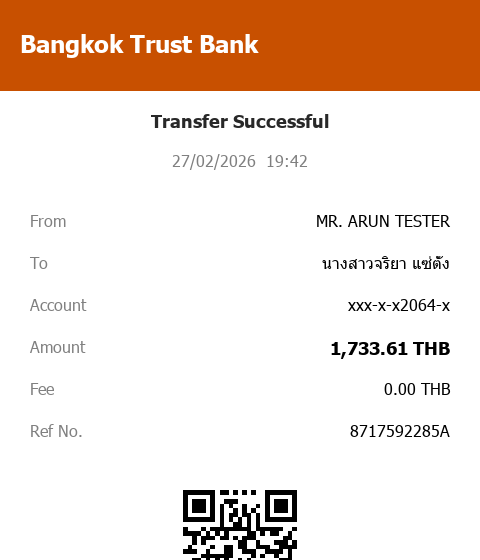
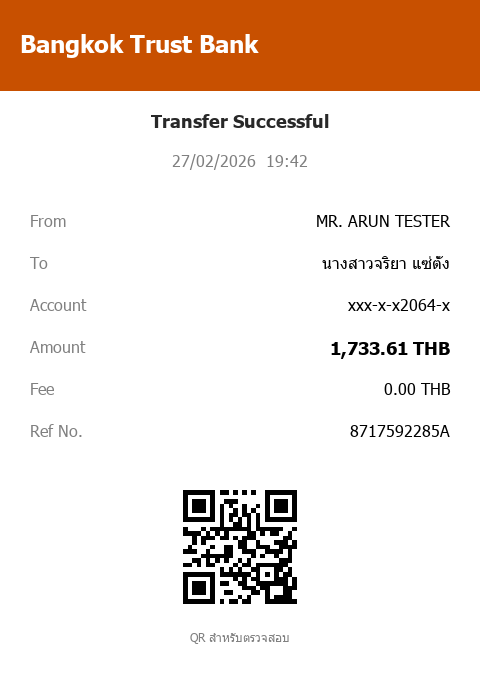
slips: fix layout-3 QR cropped off bottom (generator bug); MTU 1280; CLI stages images through the same shrink as LINE

diff --git a/app/cli.py b/app/cli.py
@@ -22,9 +22,14 @@ def stage_image(src: str) -> str:
     p = Path(src)
     if not p.exists():
         sys.exit(f"no such image: {src}")
-    dest = UPLOADS / f"cli-{uuid.uuid4().hex[:8]}{p.suffix}"
     UPLOADS.mkdir(parents=True, exist_ok=True)
-    shutil.copy(p, dest)
+    if p.suffix.lower() == ".pdf":
+        dest = UPLOADS / f"cli-{uuid.uuid4().hex[:8]}.pdf"
+        shutil.copy(p, dest)
+    else:  # same shrink as the LINE path, so payloads match production
+        from app.events import shrink
+        dest = UPLOADS / f"cli-{uuid.uuid4().hex[:8]}.jpg"
+        dest.write_bytes(shrink(p.read_bytes()))
     return str(dest)
 
 

diff --git a/scripts/make_slips.py b/scripts/make_slips.py
@@ -18,7 +18,7 @@ for i in range(30):
     payer, payee = rng.sample(NAMES, 2); mismatch = (i % 6 == 5)
     qr_payload = f"{ref if not mismatch else 'X'+ref[1:]}|{amt:.2f}"
     qr = qrcode.make(qr_payload).resize((150, 150))
-    W, H = (420, 640) if layout != 3 else (480, 560)
+    W, H = (420, 640) if layout != 3 else (480, 680)  # layout 3 was cropping the QR off the bottom
     im = Image.new("RGB", (W, H), "white"); dr = ImageDraw.Draw(im)
     dr.rectangle([0, 0, W, 90], fill=col); dr.text((20, 28), bank, font=F("tahomabd.ttf", 24), fill="white")
     y = 120; f = F("tahoma.ttf", 16); fb = F("tahomabd.ttf", 18)
